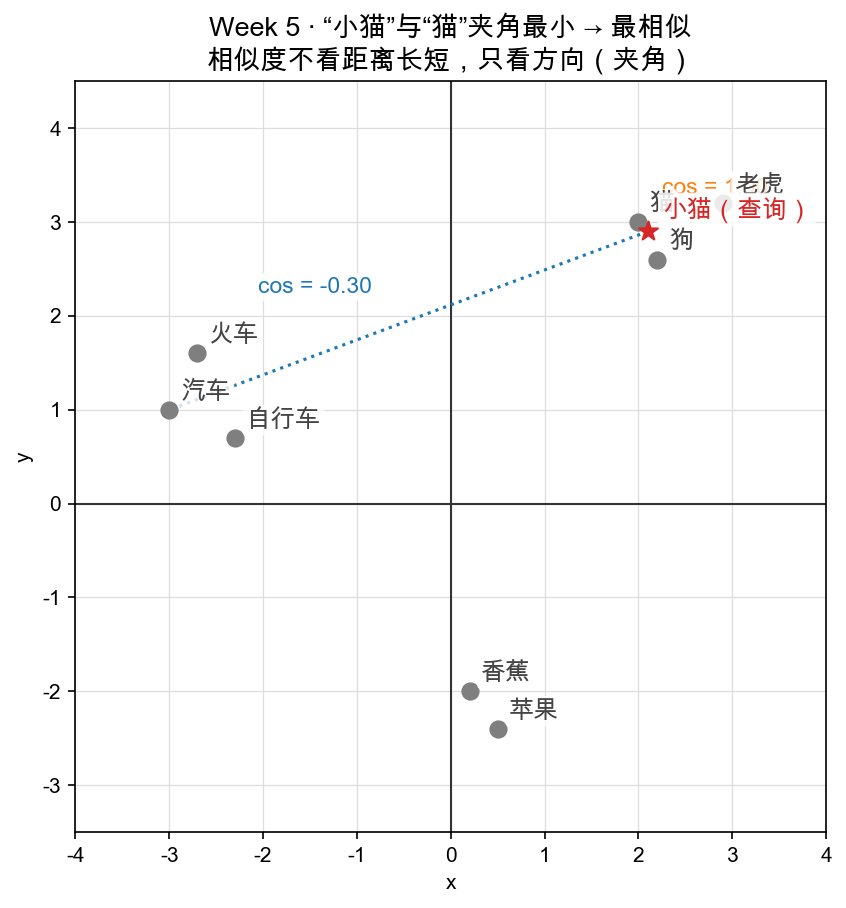
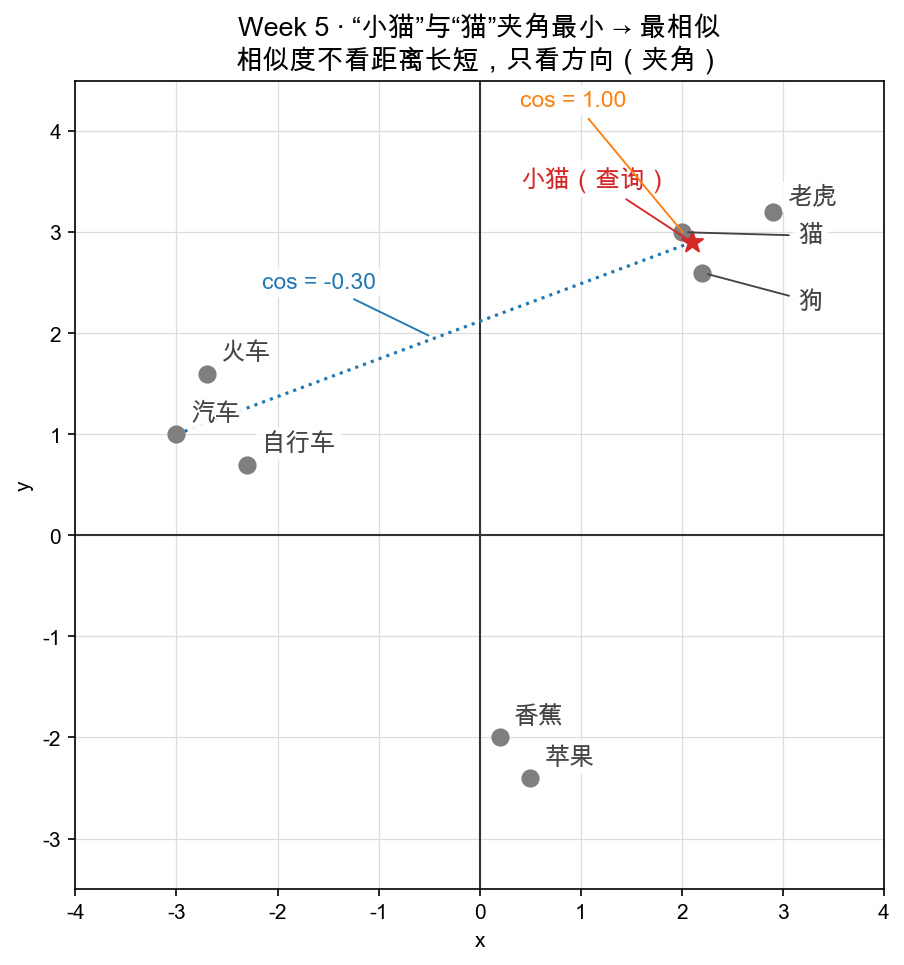
更新 W5D4 图示：调整标签位置以避免重叠，新增细引线连接标签与点，增强图示的可读性和信息传达，更新查询点的标注方式以突出相似度。

diff --git a/figures/gen_w5d4_embedding_scatter.py b/figures/gen_w5d4_embedding_scatter.py
@@ -1,4 +1,9 @@
-"""W5D4 图：二维"词向量"散点 —— 相似度 = 夹角。"""
+"""W5D4 图：二维"词向量"散点 —— 相似度 = 夹角。
+
+右上角"猫/狗/老虎/小猫"挤成一团，直接挨点标注必然互相遮挡，
+所以密集簇的标签全部拉到人群外（左侧 / 右侧），用细引线指回各自的点；
+分散的词（汽车/火车/自行车/苹果/香蕉）仍然挨点标注。
+"""
 import sys, pathlib
 
 sys.path.insert(0, str(pathlib.Path(__file__).resolve().parents[1]))
@@ -20,36 +25,64 @@ words = {
 query = "小猫"
 q = (2.1, 2.9)
 
-fig, ax = plt.subplots(figsize=(7.5, 6.5))
+fig, ax = plt.subplots(figsize=(8.5, 7))
 axes(ax, xlim=(-4, 4), ylim=(-3.5, 4.5))
 
+BBOX = dict(boxstyle="round,pad=0.2", fc="white", ec="none", alpha=0.9)
+
+
+def lead(color, lw=0.9):
+    """细灰引线：从标签连到目标点，不压任何文字。"""
+    return dict(arrowstyle="-", color=color, lw=lw, shrinkA=2, shrinkB=3)
+
+
+def tag(text, xy, xytext, color="#444444", fontsize=12, ha="left"):
+    """带引线的标签：文字放在 xytext，引线指到 xy。"""
+    ax.annotate(text, xy=xy, xytext=xytext, color=color, fontsize=fontsize,
+                ha=ha, bbox=BBOX, zorder=8, arrowprops=lead(color))
+
+
+def plain(text, xy, dx=0.14, dy=0.14, color="#444444", fontsize=12):
+    """挨点标注（只用于周围空旷的词）。"""
+    ax.text(xy[0] + dx, xy[1] + dy, text, fontsize=fontsize, color=color,
+            bbox=BBOX, zorder=6)
+
+
+# ---- 所有词向量点 ----
 for w, p in words.items():
     ax.scatter([p[0]], [p[1]], color=C_GRAY, s=60, zorder=5)
-    ax.text(p[0] + 0.12, p[1] + 0.12, w, fontsize=12, color="#444444",
-            bbox=dict(boxstyle="round,pad=0.15", fc="white", ec="none", alpha=0.8),
-            zorder=6)
 
-ax.scatter([q[0]], [q[1]], color=C_RED, s=90, zorder=6, marker="*")
-ax.text(q[0] + 0.15, q[1] + 0.15, f"{query}（查询）", color=C_RED, fontsize=12,
-        bbox=dict(boxstyle="round,pad=0.15", fc="white", ec="none", alpha=0.85),
-        zorder=7)
+# 周围空旷的词：挨点标注
+plain("汽车", words["汽车"])
+plain("火车", words["火车"])
+plain("自行车", words["自行车"])
+plain("苹果", words["苹果"])
+plain("香蕉", words["香蕉"])
 
-# 找最近邻
+# ---- 右上角密集簇：标签拉到人群外 + 引线 ----
+# 右侧一列：老虎（挨点即可）、猫、狗
+plain("老虎", words["老虎"], dx=0.14, dy=0.08)
+tag("猫", words["猫"], (3.15, 2.90))
+tag("狗", words["狗"], (3.15, 2.25))
+
+# 查询点：红色星星，标签放左侧
+ax.scatter([q[0]], [q[1]], color=C_RED, s=110, zorder=6, marker="*")
+tag(f"{query}（查询）", q, (0.4, 3.45), color=C_RED)
+
+# ---- 最近邻连线（橙）与对照连线（蓝） ----
 names = list(words.keys())
 vecs = list(words.values())
 best = names[nearest_index(q, vecs)]
 p = words[best]
-ax.plot([q[0], p[0]], [q[1], p[1]], color=C_ORANGE, lw=2, ls="--")
-ax.text((q[0] + p[0]) / 2 + 0.2, (q[1] + p[1]) / 2 + 0.35,
-        f"cos = {cosine_similarity(q, p):.2f}", color=C_ORANGE, fontsize=11,
-        bbox=dict(boxstyle="round,pad=0.15", fc="white", ec="none", alpha=0.85))
+ax.plot([q[0], p[0]], [q[1], p[1]], color=C_ORANGE, lw=2.5, ls="--", zorder=4)
+tag(f"cos = {cosine_similarity(q, p):.2f}",
+    ((q[0] + p[0]) / 2, (q[1] + p[1]) / 2), (0.4, 4.25), color=C_ORANGE, fontsize=11)
 
 # 对照：与"汽车"的夹角大得多
 p2 = words["汽车"]
-ax.plot([q[0], p2[0]], [q[1], p2[1]], color=C_BLUE, lw=1.5, ls=":")
-ax.text((q[0] + p2[0]) / 2 - 1.6, (q[1] + p2[1]) / 2 + 0.3,
-        f"cos = {cosine_similarity(q, p2):.2f}", color=C_BLUE, fontsize=11,
-        bbox=dict(boxstyle="round,pad=0.15", fc="white", ec="none", alpha=0.85))
+ax.plot([q[0], p2[0]], [q[1], p2[1]], color=C_BLUE, lw=1.5, ls=":", zorder=3)
+tag(f"cos = {cosine_similarity(q, p2):.2f}",
+    ((q[0] + p2[0]) / 2, (q[1] + p2[1]) / 2), (-2.15, 2.45), color=C_BLUE, fontsize=11)
 
 ax.set_title(f"Week 5 · “{query}”与“{best}”夹角最小 → 最相似\n相似度不看距离长短，只看方向（夹角）", fontsize=13)
 save(fig, "w5d4_embedding_scatter.png")
